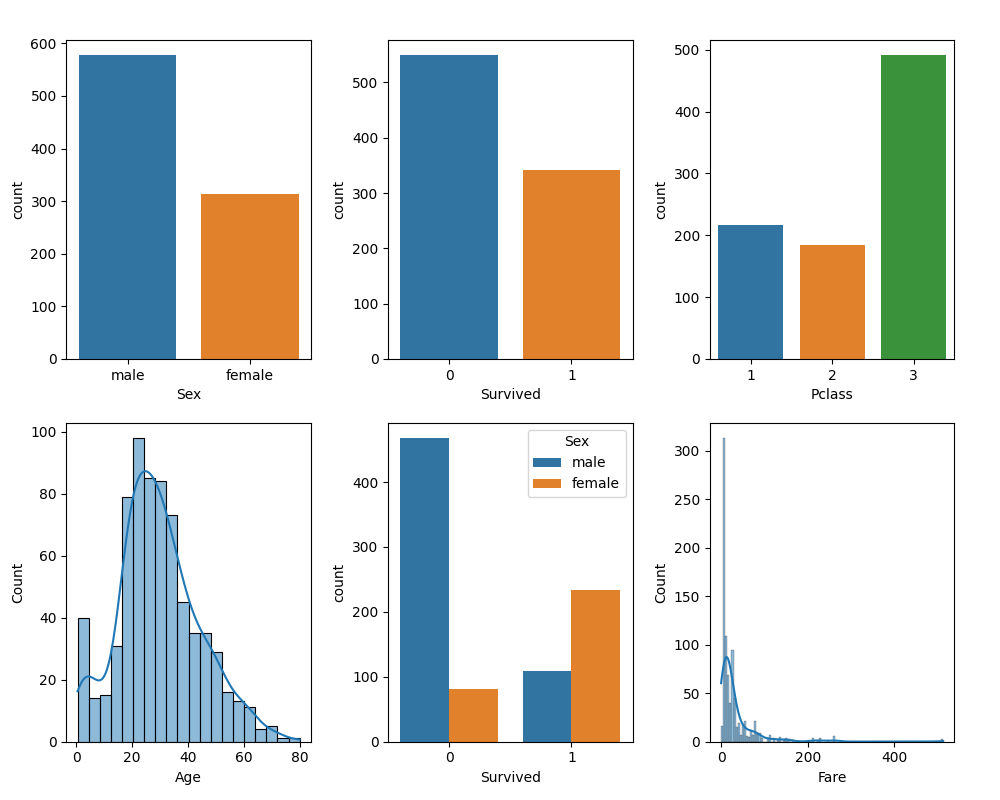
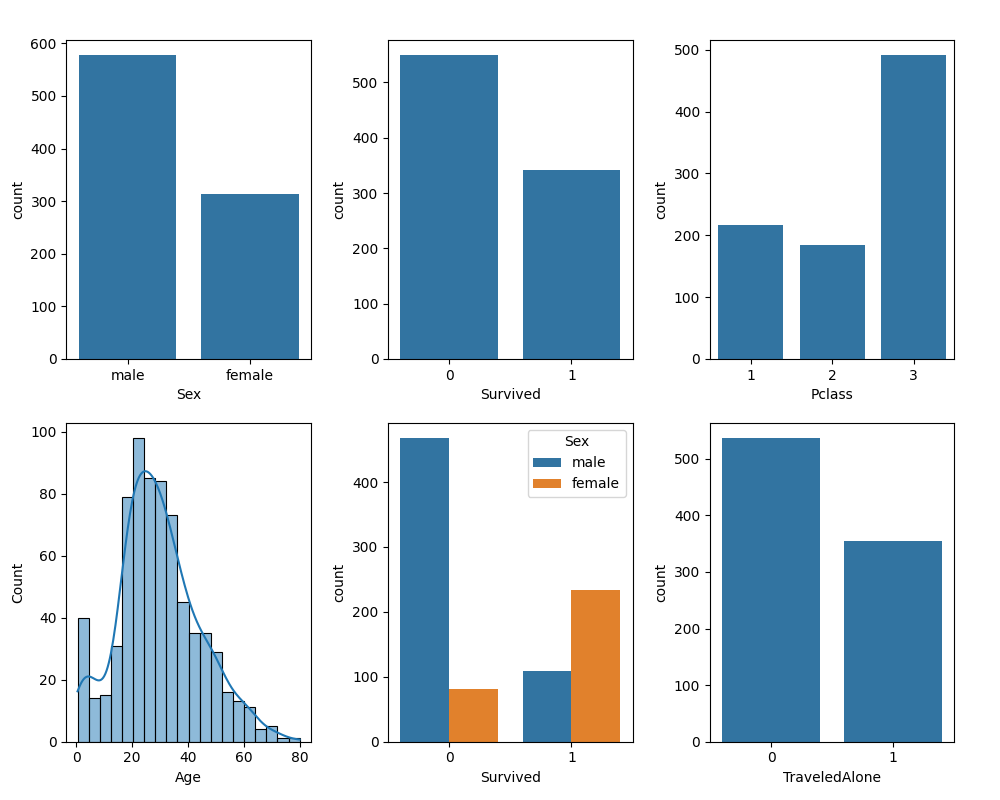
Fixed heatmap annotation error by upgrading to seaborn 0.13.0, added .gitignore

diff --git a/data_clean_visualize.py b/data_clean_visualize.py
@@ -6,6 +6,19 @@ import warnings
 warnings.filterwarnings("ignore")
 from sklearn.preprocessing import MinMaxScaler
 
+
+def preprocess(df):
+
+    df.ffill(inplace=True)
+    alone_col = np.where(df["SibSp"] + df["Parch"] > 0, 1, 0)
+    df.drop(["PassengerId","Name", "Ticket", "Cabin", "SibSp", "Parch"], axis=1, inplace=True)
+    df["TraveledAlone"] = alone_col
+    df = pd.get_dummies(df)
+    
+    colnames = list(df.columns)
+    return pd.DataFrame(df, columns=colnames)
+
+
 train = pd.read_csv("data/train.csv")
 test = pd.read_csv("data/test.csv")
 
@@ -30,31 +43,24 @@ sns.histplot(train, x="Age", kde=True, ax=axes[1][0])
 
 sns.countplot(train, x="Survived", hue="Sex", ax=axes[1][1])
 
-sns.histplot(train, x="Fare", kde=True, ax=axes[1][2])
+
+train = preprocess(train)
+sns.countplot(train, x="TraveledAlone", ax=axes[1][2]) # Feature TraveledAlone is only created after preprocess() call
 
 fig.savefig("output/feature-dist.png")
 
 # One-hot encoding on categorical variables
-train = train.drop(["Name", "Cabin", "Ticket"], axis=1)
-train = pd.get_dummies(train)
+#train = train.drop(["Name", "Cabin", "Ticket"], axis=1)
+#train = pd.get_dummies(train)
 heat_fig, heat_axes = plt.figure(), plt.axes()
 
 # Feature correlation plot
-heatmap = sns.heatmap(train.corr(), annot=train.corr(), fmt='.2f', ax=heat_axes)
+heatmap = sns.heatmap(train.corr(), annot=np.array(train.corr()), fmt='.2f', cmap='hot', ax=heat_axes)
 heat_fig = heatmap.get_figure()
 heat_fig.set_size_inches((10,10))
 heat_fig.savefig("output/feature-corr.png", dpi=400)
+print(np.array(train.corr()))
 
-def preprocess(df):
-
-    df.ffill(inplace=True)
-    alone_col = np.where(df["SibSp"] + df["Parch"] > 0, 1, 0)
-    df.drop(["PassengerId","Name", "Ticket", "Cabin", "SibSp", "Parch"], axis=1, inplace=True)
-    df["TraveledAlone"] = alone_col
-    df = pd.get_dummies(df)
-    
-    colnames = list(df.columns)
-    return pd.DataFrame(df, columns=colnames)
 
 
 
